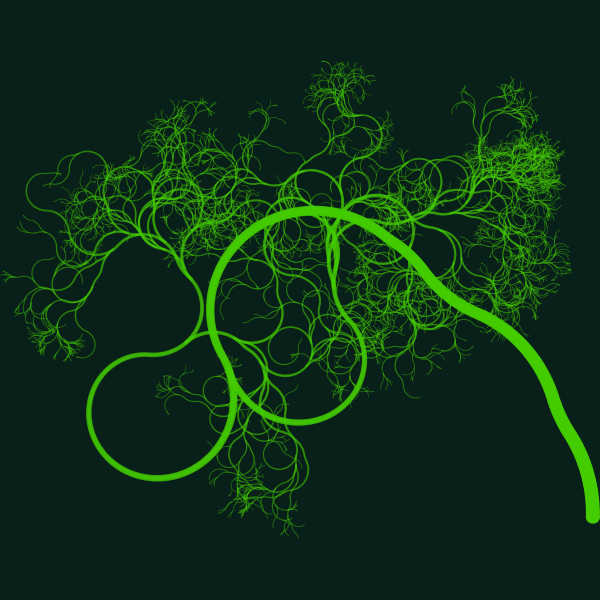
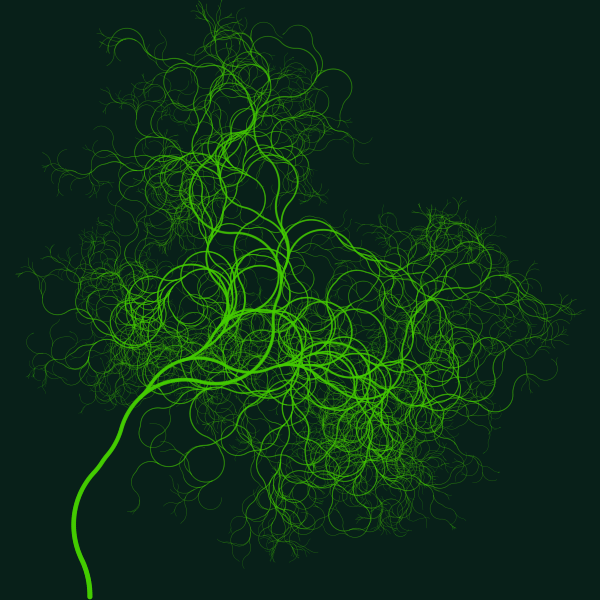
massive refactor

Changed region(s): [[0.0, 0.0, 1.0, 1.0], [0.03, 0.3, 0.06, 0.33]]

diff --git a/contextfree/core.py b/contextfree/core.py
@@ -8,7 +8,7 @@ import logging
 import sys
 import numpy as np
 import cairocffi as cairo
-
+import contextfree
 
 logger = logging.getLogger(__name__)
 
@@ -18,14 +18,16 @@ HEIGHT = 100
 WIDTH = 100
 SIZE_MIN_FEATURE = 0.5
 _state = {}
-_ctx = None
 _background_color = None
 _rules = {}
-
+surface = None
 
 def _init_state():
-    global _state
-    _state = {}
+    # global _state
+    # _state = {}
+    global surface
+    surface = cairo.RecordingSurface(cairo.CONTENT_COLOR_ALPHA, None)
+    _state["ctx"] = cairo.Context(surface)
     _state["depth"] = 0
     _state["cnt_elements"] = 0
 
@@ -109,7 +111,7 @@ def check_limits(some_function):
         global _state
         _state["cnt_elements"] += 1
         _state["depth"] += 1
-        matrix = _ctx.get_matrix()
+        matrix = _state["ctx"].get_matrix()
         # print(matrix)
         if _state["depth"] >= MAX_DEPTH:
             logger.info("stop recursion by reaching max depth {}".format(MAX_DEPTH))
@@ -168,27 +170,26 @@ def init(canvas_size=(512, 512), max_depth=12, face_color=None, background_color
     """Initializes global state"""
     global _background_color
     _background_color = background_color
-    global surface
     global _ctx
     global cnt_elements
     # global depth
     global MAX_DEPTH
     global WIDTH
     global HEIGHT
+
     _init_state()
+    _state["a"] = 5
     sys.setrecursionlimit(20000)
     MAX_DEPTH = max_depth
     WIDTH, HEIGHT = canvas_size
     #   surface = cairo.ImageSurface(cairo.FORMAT_ARGB32, WIDTH, HEIGHT)
-    surface = cairo.RecordingSurface(cairo.CONTENT_COLOR_ALPHA, None)
-    _ctx = cairo.Context(surface)
     # _ctx.translate(WIDTH / 2, HEIGHT / 2)
     # scale = min(WIDTH, HEIGHT)
     # _ctx.scale(scale, -scale)  # Normalizing the canvas
     # _ctx.rotate(math.pi)
 
     if face_color is not None:
-        _ctx.set_source_rgb(* htmlcolor_to_rgb(face_color))
+        _state["ctx"].set_source_rgb(* htmlcolor_to_rgb(face_color))
     logger.debug("Init done")
 
 
@@ -202,13 +203,11 @@ class rotate:
         self.matrix_old = None
 
     def __enter__(self):
-        global _ctx
-        self.matrix_old = _ctx.get_matrix()
-        _ctx.rotate(self.angle)
+        self.matrix_old = _state["ctx"].get_matrix()
+        _state["ctx"].rotate(self.angle)
 
     def __exit__(self, type, value, traceback):
-        global _ctx
-        _ctx.set_matrix(self.matrix_old)
+        _state["ctx"].set_matrix(self.matrix_old)
 
 
 class translate:
@@ -219,13 +218,11 @@ class translate:
         self.offset_y = offset_y
 
     def __enter__(self):
-        global _ctx
-        self.matrix_old = _ctx.get_matrix()
-        _ctx.translate(self.offset_x, self.offset_y)
+        self.matrix_old = _state["ctx"].get_matrix()
+        _state["ctx"].translate(self.offset_x, self.offset_y)
 
     def __exit__(self, type, value, traceback):
-        global _ctx
-        _ctx.set_matrix(self.matrix_old)
+        _state["ctx"].set_matrix(self.matrix_old)
 
 
 class scale:
@@ -239,26 +236,22 @@ class scale:
             self.scale_y = scale_y
 
     def __enter__(self):
-        global _ctx
-        self.matrix_old = _ctx.get_matrix()
-        _ctx.scale(self.scale_x, self.scale_y)
+        self.matrix_old = _state["ctx"].get_matrix()
+        _state["ctx"].scale(self.scale_x, self.scale_y)
 
     def __exit__(self, type, value, traceback):
-        global _ctx
-        _ctx.set_matrix(self.matrix_old)
+        _state["ctx"].set_matrix(self.matrix_old)
 
 
 class flip_y:
     """Defines scope of a view being reflected along the y axis"""
 
     def __enter__(self):
-        global _ctx
-        self.matrix_old = _ctx.get_matrix()
-        _ctx.scale(-1, 1)
+        self.matrix_old = _state["ctx"].get_matrix()
+        _state["ctx"].scale(-1, 1)
 
     def __exit__(self, type, value, traceback):
-        global _ctx
-        _ctx.set_matrix(self.matrix_old)
+        _state["ctx"].set_matrix(self.matrix_old)
 
 
 class color:
@@ -275,8 +268,7 @@ class color:
         self.source_old = None
 
     def __enter__(self):
-        global _ctx
-        self.source_old = _ctx.get_source()
+        self.source_old = _state["ctx"].get_source()
         r, g, b, a = self.source_old.get_rgba()
         # print("rgb old:", r, g, b)
         hue, lightness, saturation = colorsys.rgb_to_hls(r, g, b)
@@ -299,55 +291,11 @@ class color:
         # rgba = [int(r * 255), int(g * 255), int(b * 255), a]
         rgba = [r, g, b, a]
         # print(rgba)
-        _ctx.set_source_rgba(* rgba)
+        _state["ctx"].set_source_rgba(* rgba)
 
     def __exit__(self, type, value, traceback):
-        global _ctx
-        _ctx.set_source(self.source_old)
+        _state["ctx"].set_source(self.source_old)
 
-# ----------------- primitives ----------------------
-
-
-def line(x, y, width=0.1):
-    """Draw a line"""
-    global _ctx
-    _ctx.move_to(0, 0)
-    _ctx.line_to(x, y)
-    _ctx.close_path()
-    # _ctx.set_source_rgb (0.3, 0.2, 0.5)
-    _ctx.set_line_width(width)
-    _ctx.stroke()
-
-
-def circle(rad=0.5):
-    """Draw a circle"""
-    global _ctx
-    _ctx.arc(0, 0, rad, 0, 2 * math.pi)
-    # _ctx.stroke_preserve()
-    # _ctx.set_source_rgb(0.3, 0.4, 0.6)
-    _ctx.fill()
-
-
-def triangle(rad=0.5):
-    """Draw a triangle"""
-    global _ctx
-    # half_height = math.sqrt(3) * side / 6
-    # half_height = side / 2
-    side = 3 * rad / math.sqrt(3)
-    _ctx.move_to(0, -rad / 2)
-    _ctx.line_to(-side / 2, -rad / 2)
-    _ctx.line_to(0, rad)
-    _ctx.line_to(side / 2, -rad / 2)
-    _ctx.close_path()
-    _ctx.fill()
-
-
-def box(side=1):
-    """Draw a box"""
-    global _ctx
-    half_side = side / 2
-    _ctx.rectangle(-half_side, -half_side, side, side)
-    _ctx.fill()
 
 
 def rnd(diap):

diff --git a/examples/curly branches/curly_branches.py b/examples/curly branches/curly_branches.py
@@ -1,29 +1,29 @@
-from contextfree.contextfree import *
+from contextfree import *
 
 
 @check_limits
 def branch():
     circle(1)
-    with translate(0, 0.65):
+    with translate(0, 1.6):
         with color(alpha=0.998):
-            with rotate(0.03):
-                with scale(0.997):
+            with rotate(0.025):
+                with scale(0.998):
                     if coinflip(50):
                         with flip_y():
                             branch()
                     else:
                         branch()
-            if coinflip(60):
+            if coinflip(120):
                 with flip_y():
                     with scale(0.9):
                         branch()
 
 
 def main():
-    init(canvas_size=(600, 600), face_color="#44cc00", background_color="#082019", max_depth=800)
+    init(canvas_size=(600, 600), face_color="#44cc00", background_color="#082019", max_depth=700)
     with scale(2):
         branch()
-    write_to_png("/tmp/round_branches.png")
+    write_to_png("/tmp/curly_branches.png")
 
 
 if __name__ == "__main__":

diff --git a/tests/test_main.py b/tests/test_main.py
@@ -1,10 +1,10 @@
 import logging
 import unittest
 import numpy as np
-from contextfree.contextfree import init, get_npimage, write_to_png, report, check_limits
-from contextfree.contextfree import circle, box, line, triangle
-from contextfree.contextfree import translate, color, scale, rotate, flip_y
-from contextfree.contextfree import MAX_ELEMENTS
+from contextfree import init, get_npimage, write_to_png, report, check_limits
+from contextfree import circle, box, line, triangle
+from contextfree import translate, color, scale, rotate, flip_y
+from contextfree import MAX_ELEMENTS
 
 
 logging.basicConfig(format='%(asctime)s %(message)s', level=logging.DEBUG)

diff --git a/tests/test_rule.py b/tests/test_rule.py
@@ -2,8 +2,8 @@
 
 import logging
 import unittest
-from contextfree.contextfree import init, translate, scale, circle
-from contextfree.contextfree import rule, call_rule
+from contextfree import init, translate, scale, circle
+from contextfree import rule, call_rule
 
 
 logging.basicConfig(format='%(asctime)s %(message)s', level=logging.DEBUG)

diff --git a/examples/graphite/graphite.py b/examples/graphite/graphite.py
@@ -6,7 +6,7 @@ https://www.contextfreeart.org/gallery2/#design/561
 THIS DEMO IS NOT COMPLETE YET ><
 """
 import math
-from contextfree.contextfree import init, rule, scale, color, box, rotate, translate, write_to_png
+from contextfree import init, rule, scale, color, box, rotate, translate, write_to_png
 
 
 # pylint: disable=E0102

diff --git a/tests/test_rnd.py b/tests/test_rnd.py
@@ -1,8 +1,8 @@
 import random
 import unittest
-from contextfree.contextfree import circle
-from contextfree.contextfree import init
-from contextfree.contextfree import rnd, prnd, coinflip
+from contextfree import circle
+from contextfree import init
+from contextfree import rnd, prnd, coinflip
 
 
 class Tests(unittest.TestCase):

diff --git a/examples/ancient map/map.py b/examples/ancient map/map.py
@@ -4,8 +4,10 @@ based on CFDG demo by the same name
 https://www.contextfreeart.org/gallery2/#design/185
 """
 import math
-from contextfree.contextfree import *
+# import logging
+from contextfree import *
 
+# logging.basicConfig(format='%(asctime)s %(message)s', level=logging.DEBUG)
 
 
 

diff --git a/tests/test_io.py b/tests/test_io.py
@@ -1,6 +1,6 @@
 import unittest
-from contextfree.contextfree import circle
-from contextfree.contextfree import init, display_ipython, htmlcolor_to_rgb
+from contextfree import circle
+from contextfree import init, display_ipython, htmlcolor_to_rgb
 
 
 class Tests(unittest.TestCase):

diff --git a/contextfree/__init__.py b/contextfree/__init__.py
@@ -1,7 +1,8 @@
 """CFDG-inspired cairo-based pythonic generative art tool."""
 
 from ._version import VERSION
-from .contextfree import *
+from .core import *
+from .shapes import circle, box, line, triangle
 
 
 __version__ = VERSION

diff --git a/examples/serpinski/serpinski.py b/examples/serpinski/serpinski.py
@@ -1,4 +1,4 @@
-from contextfree.contextfree import *
+from contextfree import *
 from math import sqrt, pi
 
 side = 3 / sqrt(3)

diff --git a/examples/paper/paper.py b/examples/paper/paper.py
@@ -1,4 +1,4 @@
-from contextfree.contextfree import *
+from contextfree import *
 
 
 def sheet():
